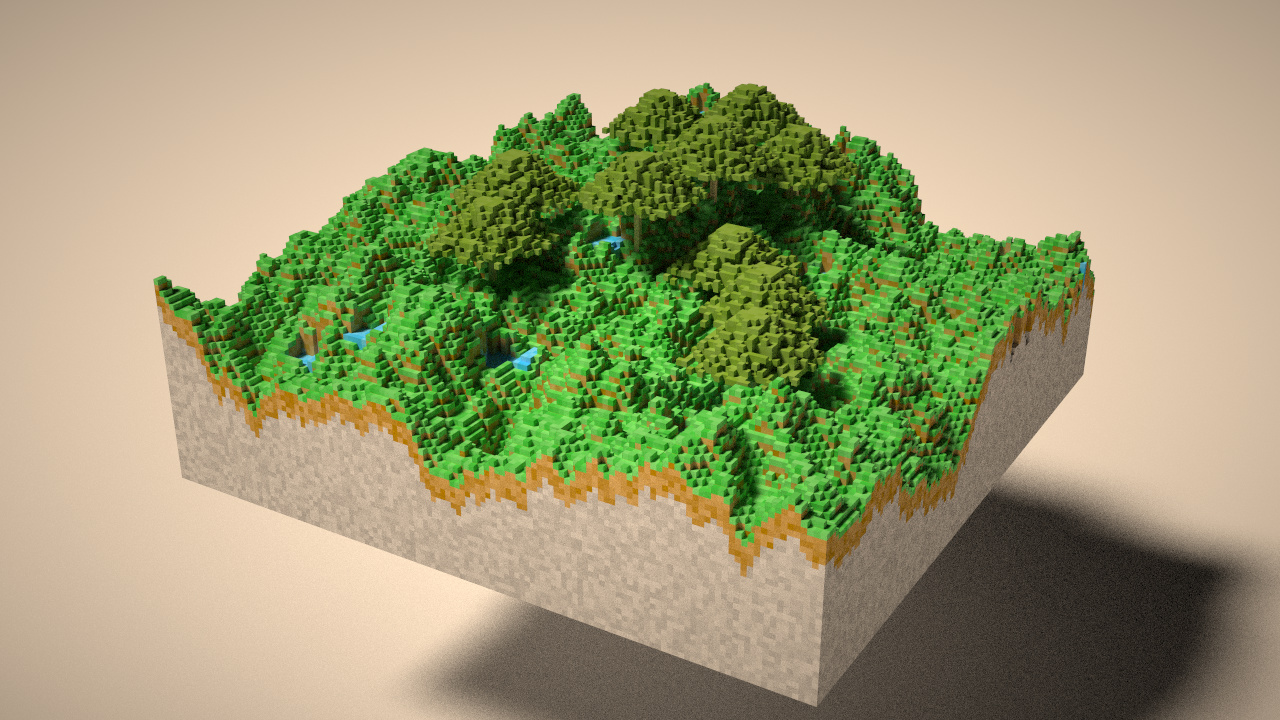
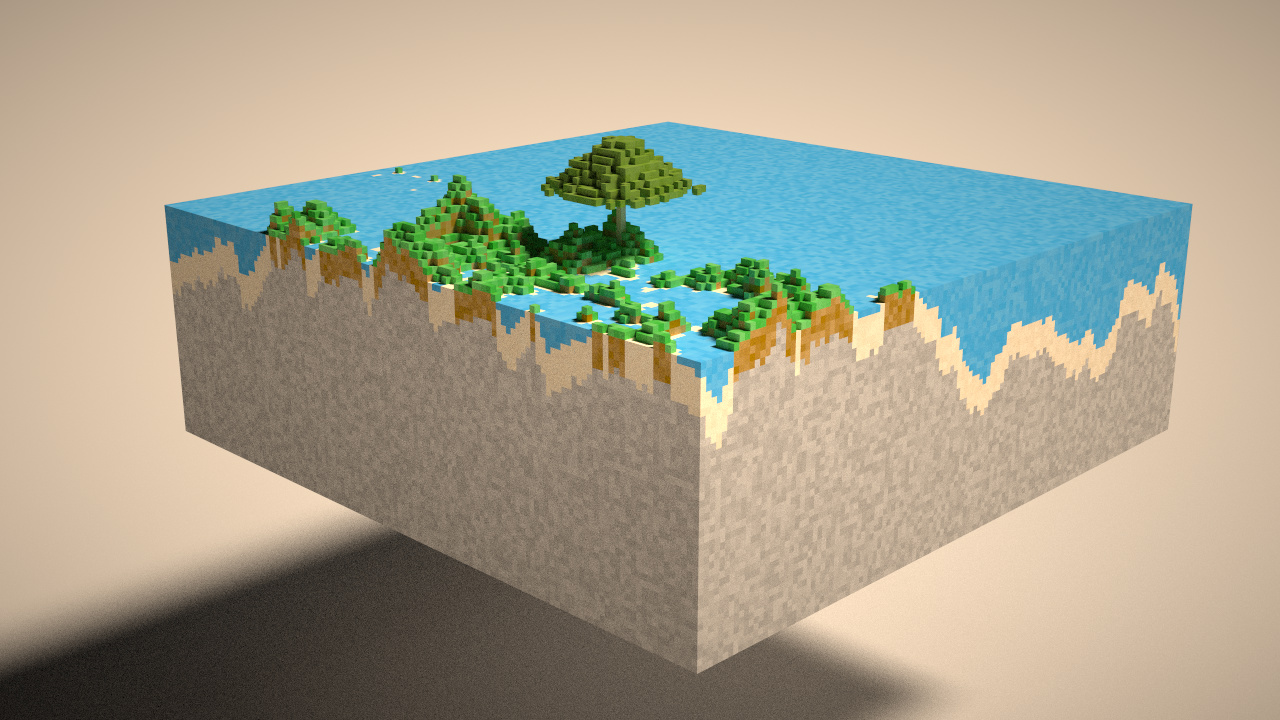
[feat] 新增更多生物群系

diff --git a/main.py b/main.py
@@ -1,14 +1,14 @@
 from scene import Scene
 import taichi as ti
 from taichi.math import *
-
-scene = Scene(exposure=1.5, voxel_edges=0)
+manual_seed, biome, snow = 2, 'island', False
+loop= [[0, 0], [1, 0], [0, 1], [1, 1]]
+terrain = [[2, 0.12], [8, 0.06], [32, 0.03]] \
+    if biome != 'forest' and biome != 'island' else [[2, 0.3], [8, 0.2], [32, 0.1]]
+scene = Scene(exposure=1.5 if biome != 'desert' else 1.2, voxel_edges=0)
 scene.set_floor(-0.85, (1.0, 1.0, 1.0))
-scene.set_background_color((0.5, 0.5, 0.4))
+scene.set_background_color((0.94, 1, 1))
 scene.set_directional_light((1, 2, -1), 0.2, (1, 0.8, 0.6))
-manual_seed, terrainRange, riverCount, treeCount = 3, 1., 10, 10
-loop = [[0, 0], [1, 0], [0, 1], [1, 1]]
-
 @ti.func
 def lerp(e1: ti.f32, e2: ti.f32, w: ti.f32): return e1 + (e2 - e1) * (w ** 2 * (3 - 2 * w))
 @ti.func
@@ -45,53 +45,53 @@ def createRiver(x: ti.i8, y: ti.i8):
 @ti.func
 def createTree(x: ti.i16, y: ti.i16):
     zl = ti.cast(scene.get_voxel(vec3(x - 64, 0, y - 64))[1][0] * 80, ti.i16)
-    high = ti.cast(ti.random() * 5, ti.i16)
-    for z in range(zl, zl + high + 10):
-        scene.set_voxel(vec3(x - 64, z, y - 64), 1, vec3(0.85, 0.65, 0.41))
-        if high > 3:
+    if biome == 'desert':
+        for z in range(zl+2, int(zl+4+ti.random()*2)): scene.set_voxel(vec3(x - 64, z, y - 64), 1, vec3(.22, .37, .06))
+    elif zl + 1 >= 45 or biome != 'island':
+        high = ti.cast(ti.random() * 5, ti.i16)
+        for z in range(zl, zl + high + 10):
             scene.set_voxel(vec3(x - 64, z, y - 64), 1, vec3(0.85, 0.65, 0.41))
-            scene.set_voxel(vec3(x - 63, z, y - 64), 1, vec3(0.85, 0.65, 0.41))
-            scene.set_voxel(vec3(x - 63, z, y - 63), 1, vec3(0.85, 0.65, 0.41))
-    for z in range(zl + high + 8, zl + high + 16):
-        r = zl + high + 18 - z
-        for u, v in ti.ndrange((-r, r), (-r, r)):
-            prob = ti.random() * 0.5 + (1 - ti.sqrt(u ** 2 + v ** 2) / r) * 0.7
-            if prob > 0.3:
-                scene.set_voxel(vec3(u + x - 64, z, v + y - 64), 1, vec3(0.22, 0.37, 0.06) + (ti.random() - 0.5) * 0.05)
-
+            if high > 3:
+                scene.set_voxel(vec3(x - 64, z, y - 64), 1, vec3(0.85, 0.65, 0.41))
+                scene.set_voxel(vec3(x - 63, z, y - 64), 1, vec3(0.85, 0.65, 0.41))
+                scene.set_voxel(vec3(x - 63, z, y - 63), 1, vec3(0.85, 0.65, 0.41))
+        for z in range(zl + high + (5 if snow else 8), zl + high + 16):
+            r = (zl + high + 18 - z) * (0.5 if snow else 1)
+            for u, v in ti.ndrange((-r, r), (-r, r)):
+                prob = ti.random() * 0.5 + (1 - ti.sqrt(u ** 2 + v ** 2) / r) * 0.7
+                if prob > 0.3:
+                    scene.set_voxel(vec3(u + x - 64, z, v + y - 64), 1, vec3(.22, .37, .06) + (ti.random() - .5) * .05)
 @ti.kernel
 def createTerrain():
     for x, y, z in ti.ndrange(127, 127, 127): scene.set_voxel(vec3(x - 64, z - 64, y - 64), 0, vec3(0))
-    perlinNoise(2, 0.3 * terrainRange)
-    perlinNoise(8, 0.2 * terrainRange)
-    perlinNoise(32, 0.1 * terrainRange)
+    if True: [perlinNoise(it[0], it[1]) for it in terrain]
     for x, y in ti.ndrange(127, 127):
         zl = ti.cast(scene.get_voxel(vec3(x - 64, 0, y - 64))[1][0] * 80, ti.i16)
         for i in range(zl):
-            color = vec3(0.5) if i < zl - (ti.random() - 0.5) * 2 - 6 else vec3(0.45, 0.29,0.07) \
-                if i < zl - 1 else vec3(0.13,0.55,0.13)
+            color = vec3(.97, .97, 1) if snow else vec3(0.13,0.55,0.13)
+            if i < zl - (ti.random() - 0.5) * 2 - 6: color = vec3(0.5)
+            elif biome == 'desert': color = vec3(.96, .87, .7)
+            elif zl < 41 and biome == 'island': color = vec3(.96, .87, .7)
+            elif i < zl - 1: color = vec3(0.45, 0.29,0.07)
             scene.set_voxel(vec3(x - 64, i + 2, y - 64), 1, color + (ti.random() - 0.5) * 0.15)
-    [createRiver(ti.random() * 127, ti.random() * 127) for _ in range(20)]
-
-
 @ti.kernel
 def createRivers():
-    [createRiver(ti.random() * 110 + 5, ti.random() * 110 + 5) for _ in range(riverCount)]
-
-
+    [createRiver(ti.random() * 110 + 5, ti.random() * 110 + 5) for _ in range(20)]
 @ti.kernel
 def createTrees():
-    [createTree(ti.random() * 100 + 13, ti.random() * 100 + 13) for _ in range(treeCount)]
-
-
+    [createTree(ti.random() * 100 + 13, ti.random() * 100 + 13) for _ in range(5)]
 @ti.kernel
 def fillTemp():
+    if biome == 'island':
+        for x, y in ti.ndrange(127, 127):
+            zl = ti.cast(scene.get_voxel(vec3(x - 64, 0, y - 64))[1][0] * 80, ti.i16)+2
+            if zl >= 42: continue
+            for z in range(zl, 42):scene.set_voxel(vec3(x - 64, z, y - 64), 1, vec3(.07, .49, .95) + ti.random() * 0.1)
     for x, y, z in ti.ndrange(127, 127, 2):
         scene.set_voxel(vec3(x - 64, z, y - 64), 1, vec3(0.5) + (ti.random() - 0.5) * 0.15)
-
-
 [createTerrain() for _ in range(manual_seed)]
-createRivers()
-createTrees()
+if biome == 'grass' or biome == 'desert': createTrees()
+elif biome == 'forest': createRivers(); createTrees(); createTrees()
+elif biome == 'island': createTrees(); createTrees(); createTrees()
 fillTemp()
 scene.finish()

diff --git a/README.md b/README.md
@@ -1,10 +1,10 @@
 # <a name="title">Taichi Voxel Challenge</a>
 
 <p align="center">
-    <img src="screenshot/6.jpg" width="75%" alt="demo"/>
+    <img src="screenshot/5.jpg" width="75%" alt="demo"/>
 </p>
 
-> Figure: result with `manual_seed, terrainRange, riverCount, treeCount = 3, 1., 10, 10`
+> Figure: result with `manual_seed, biome, snow = 2, 'island', True`
 
 ### Random generate terrain, river and trees like MineCraft
 
@@ -36,8 +36,8 @@ Mouse and keyboard interface:
 + Press `W/A/S/D/Q/E` to move the camera.
 + Press `P` to save a screenshot.
 + modify `manual_seed`(positive integer) to change what generated.
-+ modify `riverCount`(integer) and `treeCount`(integer) to change how many rivers and trees generated.
-+ modify `terrainRange`(0~1] to change roughness of terrain.
++ modify `biome`(forest, grass, island, desert) to change biome.
++ modify `snow` to change snow generated while biome is not desert.
 
 ## More picture
 
@@ -47,3 +47,5 @@ Mouse and keyboard interface:
 <img src="screenshot/4.jpg" width="45%"></img>
 <img src="screenshot/5.jpg" width="45%"></img>
 <img src="screenshot/6.jpg" width="45%"></img>
+<img src="screenshot/7.jpg" width="45%"></img>
+<img src="screenshot/8.jpg" width="45%"></img>
